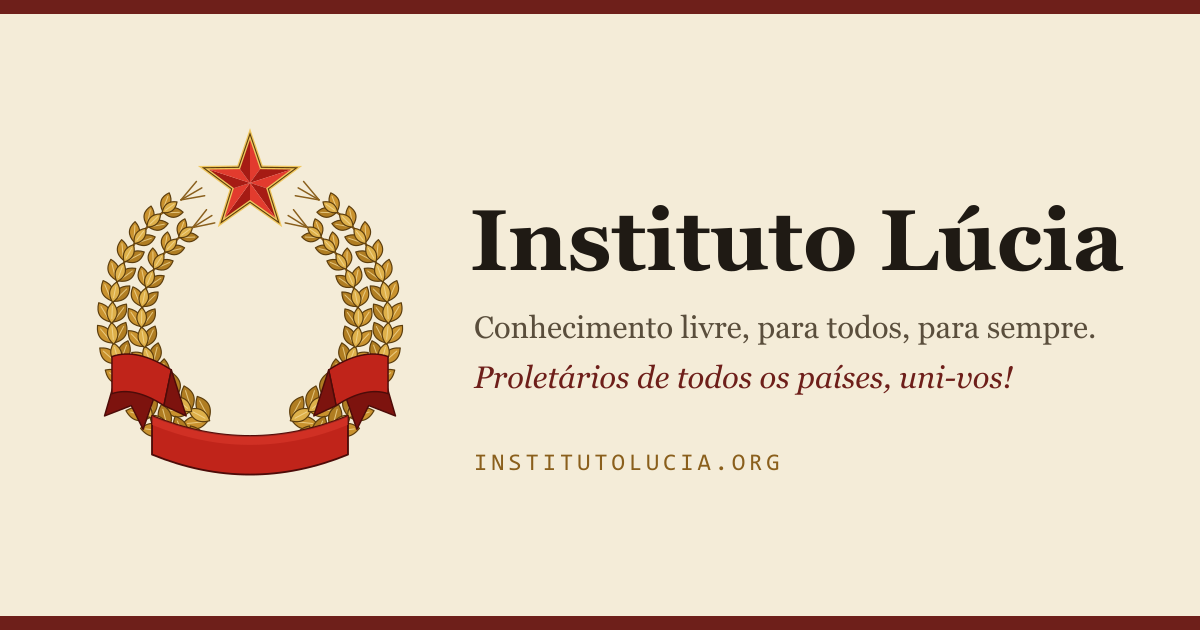
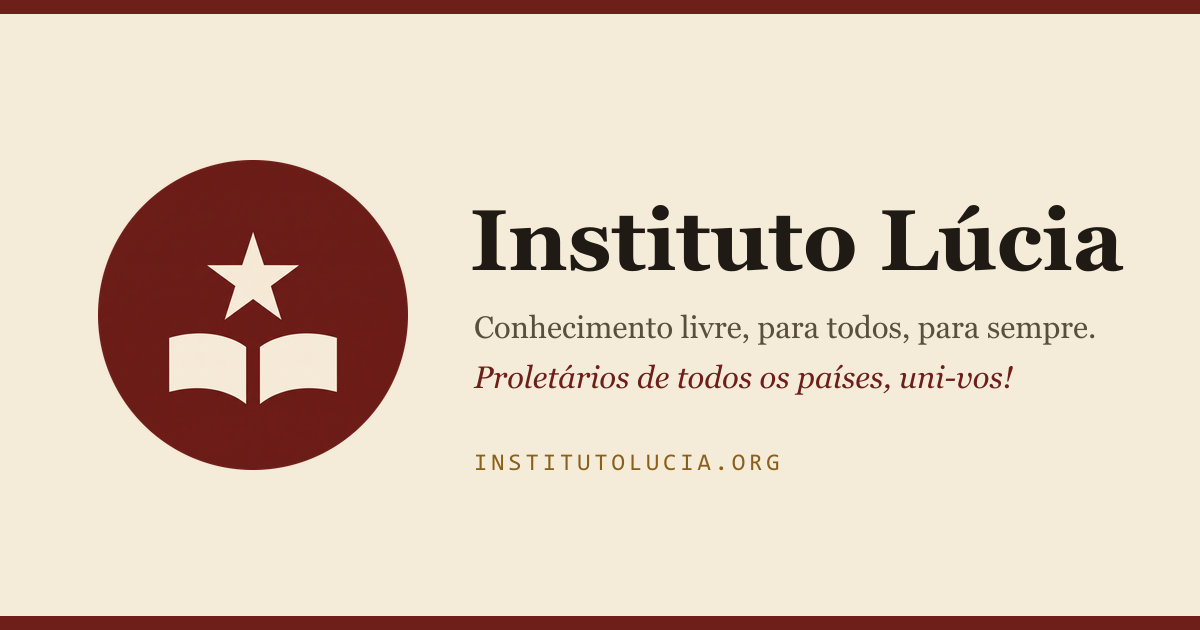
Identidade nova (estrela e livro), prévia ao vivo do certificado e modo sem internet consertado
- Ícone oficial em todos os tamanhos: cabeçalho, painel, favicon, ícones do aplicativo, cartão de compartilhamento e certificado.
- Certificado: botão 'Ver prévia' no formulário de abertura; a folha acompanha o que se preenche.
- Modo sem internet: o botão de guardar trilha gravava num cache que o service worker apagava; os nomes agora batem (v3).
- Ambiente de teste local volta a subir com o segundo fator obrigatório.

Changed region(s): [[0.0617, 0.2111, 0.3392, 0.754]]

diff --git a/components/painel/Certificado.tsx b/components/painel/Certificado.tsx
@@ -37,21 +37,10 @@ const horasPorExtenso = (valor: number) => `${String(valor).replace(".", ",")} $
 /** A hora da assinatura sai sempre no horário de Brasília, seja onde for que a folha é aberta. */
 const quandoAssinou = (iso: string) => `${new Date(iso).toLocaleString("pt-BR", { dateStyle: "short", timeStyle: "short", timeZone: "America/Sao_Paulo" })} (Brasília)`;
 
-/** A folha do certificado: uma página A4 deitada, igual para todos, que se salva em PDF pelo próprio navegador. */
+/** A folha com os controles de quem vai salvar: CPF (opcional, só na tela), salvar em PDF e voltar. */
 export function Impresso({ certificado, fechar }: { certificado: Certificado; fechar: () => void }) {
-  const { t } = useI18n();
   const [cpf, setCpf] = useState("");
   const emitido = certificado.status === "emitido";
-  const endereco = `${site.url.replace(/^https?:\/\//, "")}/pt/certificado`;
-  const cargo = (assinatura: Assinatura) =>
-    assinatura.papel === "coordenacao"
-      ? "Coordenador"
-      : assinatura.papel === "vice"
-        ? "Vice-coordenador"
-        : assinatura.papel === "educacao"
-          ? `Educador(a)${assinatura.disciplina ? ` de ${t.areas[assinatura.disciplina as keyof typeof t.areas]?.[0] ?? assinatura.disciplina}` : ""}`
-          : "Testemunha";
-
   return (
     <div>
       {/* Enquanto a folha está na tela, a página de impressão é A4 deitada e sem margens. */}
@@ -73,52 +62,75 @@ export function Impresso({ certificado, fechar }: { certificado: Certificado; fe
             : "Esta é a prévia. O certificado só pode ser salvo depois das três assinaturas."}
         </p>
       </div>
-
-      <article className="certificado" lang="pt-BR">
-        {/* eslint-disable-next-line @next/next/no-img-element */}
-        <img src="/emblema.png" alt="" className="certificado-fundo" />
-        {!emitido && <p className="certificado-previa">Prévia · sem validade</p>}
-        <div className="certificado-folha">
-          <header>
-            {/* eslint-disable-next-line @next/next/no-img-element */}
-            <img src="/emblema.png" alt="" className="certificado-emblema" />
-            <p className="certificado-casa">{site.name}</p>
-            <h2 className="certificado-titulo">Certificado</h2>
-            <p className="certificado-subtitulo">de trabalho voluntário</p>
-          </header>
-
-          <div className="certificado-corpo">
-            <p>O {site.name}, projeto educacional gratuito e sem fins lucrativos, certifica que</p>
-            <p className="certificado-nome">{certificado.nome}</p>
-            <p>
-              {cpf.trim() && <>CPF {cpf.trim()}, </>}
-              atuou como voluntária(o) no período de <strong>{dia(certificado.inicio)}</strong> a <strong>{dia(certificado.fim)}</strong>, cumprindo carga horária total de{" "}
-              <strong>{horasPorExtenso(Number(certificado.horas))}</strong>.
-            </p>
-            <p className="certificado-rotulo">Atividades realizadas</p>
-            <p className={`certificado-atividades ${certificado.atividades.length > 420 ? "certificado-atividades-longas" : ""}`}>{certificado.atividades}</p>
-            <p className="certificado-lei">Trabalho prestado sem remuneração, nos termos da Lei nº 9.608/1998, mediante termo de adesão aceito pela pessoa voluntária.</p>
-          </div>
-
-          <ul className="certificado-assinaturas">
-            {certificado.testemunhas.map((assinatura) => (
-              <li key={`${assinatura.id}${assinatura.papel ?? ""}`}>
-                <span className="certificado-selo">{assinatura.confirmou_em ? `Assinado eletronicamente em ${quandoAssinou(assinatura.confirmou_em)}` : "Aguardando assinatura"}</span>
-                <span className="certificado-assina">{assinatura.nome}</span>
-                <span className="certificado-cargo">{cargo(assinatura)}</span>
-              </li>
-            ))}
-          </ul>
-
-          <footer>
-            <p>
-              Certificado nº {codigoBonito(certificado.codigo)}
-              {certificado.emitido_em && <> · emitido em {new Date(certificado.emitido_em).toLocaleDateString("pt-BR", { timeZone: "America/Sao_Paulo" })}</>} · confira a autenticidade em {endereco}
-            </p>
-            <p>Impressão digital (SHA-256): {certificado.impressao}</p>
-          </footer>
-        </div>
-      </article>
+      <Folha certificado={certificado} cpf={cpf} />
     </div>
+  );
+}
+
+/**
+ * A folha do certificado: uma página A4 deitada, igual para todos, que se salva em PDF pelo próprio navegador.
+ * Também serve de prévia ao vivo enquanto a coordenação preenche o formulário: nesse caso as horas e o número
+ * ainda não existem, e a folha diz isso no lugar deles.
+ */
+export function Folha({ certificado, cpf = "", rascunho = false }: { certificado: Certificado; cpf?: string; rascunho?: boolean }) {
+  const { t } = useI18n();
+  const emitido = certificado.status === "emitido";
+  const data = (iso: string) => (iso ? dia(iso) : "__/__/____");
+  const endereco = `${site.url.replace(/^https?:\/\//, "")}/pt/certificado`;
+  const cargo = (assinatura: Assinatura) =>
+    assinatura.papel === "coordenacao"
+      ? "Coordenador"
+      : assinatura.papel === "vice"
+        ? "Vice-coordenador"
+        : assinatura.papel === "educacao"
+          ? `Educador(a)${assinatura.disciplina ? ` de ${t.areas[assinatura.disciplina as keyof typeof t.areas]?.[0] ?? assinatura.disciplina}` : ""}`
+          : "Testemunha";
+
+  return (
+    <article className="certificado" lang="pt-BR">
+      {/* eslint-disable-next-line @next/next/no-img-element */}
+      <img src="/emblema.png" alt="" className="certificado-fundo" />
+      {!emitido && <p className="certificado-previa">Prévia · sem validade</p>}
+      <div className="certificado-folha">
+        <header>
+          {/* eslint-disable-next-line @next/next/no-img-element */}
+          <img src="/emblema.png" alt="" className="certificado-emblema" />
+          <p className="certificado-casa">{site.name}</p>
+          <h2 className="certificado-titulo">Certificado</h2>
+          <p className="certificado-subtitulo">de trabalho voluntário</p>
+        </header>
+
+        <div className="certificado-corpo">
+          <p>O {site.name}, projeto educacional gratuito e sem fins lucrativos, certifica que</p>
+          <p className="certificado-nome">{certificado.nome || "Nome de quem recebe"}</p>
+          <p>
+            {cpf.trim() && <>CPF {cpf.trim()}, </>}
+            atuou como voluntária(o) no período de <strong>{data(certificado.inicio)}</strong> a <strong>{data(certificado.fim)}</strong>, cumprindo carga horária total de{" "}
+            <strong>{rascunho ? "__ horas" : horasPorExtenso(Number(certificado.horas))}</strong>.
+          </p>
+          <p className="certificado-rotulo">Atividades realizadas</p>
+          <p className={`certificado-atividades ${certificado.atividades.length > 420 ? "certificado-atividades-longas" : ""}`}>{certificado.atividades || "As atividades que você descrever aparecem aqui."}</p>
+          <p className="certificado-lei">Trabalho prestado sem remuneração, nos termos da Lei nº 9.608/1998, mediante termo de adesão aceito pela pessoa voluntária.</p>
+        </div>
+
+        <ul className="certificado-assinaturas">
+          {certificado.testemunhas.map((assinatura) => (
+            <li key={`${assinatura.id}${assinatura.papel ?? ""}`}>
+              <span className="certificado-selo">{assinatura.confirmou_em ? `Assinado eletronicamente em ${quandoAssinou(assinatura.confirmou_em)}` : "Aguardando assinatura"}</span>
+              <span className="certificado-assina">{assinatura.nome}</span>
+              <span className="certificado-cargo">{cargo(assinatura)}</span>
+            </li>
+          ))}
+        </ul>
+
+        <footer>
+          <p>
+            Certificado nº {rascunho ? "a definir na abertura" : codigoBonito(certificado.codigo)}
+            {certificado.emitido_em && <> · emitido em {new Date(certificado.emitido_em).toLocaleDateString("pt-BR", { timeZone: "America/Sao_Paulo" })}</>} · confira a autenticidade em {endereco}
+          </p>
+          <p>Impressão digital (SHA-256): {rascunho ? "calculada na abertura do processo" : certificado.impressao}</p>
+        </footer>
+      </div>
+    </article>
   );
 }

diff --git a/components/painel/Horas.tsx b/components/painel/Horas.tsx
@@ -3,7 +3,7 @@
 
 import { useState } from "react";
 import { can, leads, type Me } from "@/lib/backend";
-import { type Certificado, Impresso } from "./Certificado";
+import { type Certificado, Folha, Impresso } from "./Certificado";
 import { Aviso, botao, botaoClaro, campo, dia, elo, rotulo, useAcao, useLista } from "./comum";
 
 export const VERSAO_DO_TERMO = "2026-10";
@@ -46,7 +46,7 @@ interface Pessoa {
   id: string;
   nome: string;
   email: string;
-  papeis: { papel: string }[];
+  papeis: { papel: string; disciplina?: string | null }[];
 }
 
 const situacao: Record<string, string> = { pendente: "aguardando conferência", confirmada: "confirmada", recusada: "não confirmada", aberto: "aguardando assinaturas", emitido: "emitido", cancelado: "cancelado" };
@@ -214,7 +214,7 @@ export function Horas({ me }: { me: Me }) {
         </ul>
       </section>
 
-      {leads(me) && <Abrir depois={certificados.recarregar} />}
+      {leads(me) && <Abrir me={me} depois={certificados.recarregar} />}
       <Aviso texto={termo.erro || minhas.erro || certificados.erro || acao.aviso} />
     </div>
   );
@@ -251,7 +251,7 @@ function Conferir() {
 }
 
 /** Só o coordenador: abre o processo de um certificado e indica quem assina com ele. */
-function Abrir({ depois }: { depois: () => void }) {
+function Abrir({ me, depois }: { me: Me; depois: () => void }) {
   const pessoas = useLista<Pessoa[]>("voluntarios_listar");
   const acao = useAcao(depois);
   const [form, setForm] = useState({ usuario: "", educador: "", vice: "", inicio: "", fim: new Date().toLocaleDateString("sv-SE"), atividades: "" });
@@ -259,6 +259,29 @@ function Abrir({ depois }: { depois: () => void }) {
   const tem = (pessoa: Pessoa, papel: string) => pessoa.papeis.some((item) => item.papel === papel);
   const educadores = equipe.filter((pessoa) => pessoa.id !== form.usuario && tem(pessoa, "educacao") && !tem(pessoa, "coordenacao"));
   const vices = equipe.filter((pessoa) => pessoa.id !== form.usuario && pessoa.id !== form.educador && tem(pessoa, "vice"));
+  const [previa, setPrevia] = useState(false);
+  const nomeDe = (id: string) => equipe.find((pessoa) => pessoa.id === id)?.nome ?? "";
+  const educador = equipe.find((pessoa) => pessoa.id === form.educador);
+  const vice = form.vice ? nomeDe(form.vice) : vices.length === 1 ? vices[0].nome : "";
+  /** A folha como ela sairia agora, montada com o que está no formulário. Nada disto é guardado. */
+  const rascunho: Certificado = {
+    id: "previa",
+    codigo: "",
+    usuario: form.usuario || null,
+    nome: nomeDe(form.usuario),
+    horas: 0,
+    inicio: form.inicio,
+    fim: form.fim,
+    atividades: form.atividades.trim(),
+    testemunhas: [
+      { id: "educador", nome: educador?.nome || "Educador(a) que assina", papel: "educacao", disciplina: educador?.papeis.find((item) => item.papel === "educacao")?.disciplina ?? null, confirmou_em: null },
+      { id: "vice", nome: vice || "Vice-coordenador que assina", papel: "vice", confirmou_em: null },
+      { id: "coordenacao", nome: me.nome, papel: "coordenacao", confirmou_em: null },
+    ],
+    status: "aberto",
+    emitido_em: new Date().toISOString(),
+    impressao: "",
+  };
 
   return (
     <section>
@@ -330,11 +353,25 @@ function Abrir({ depois }: { depois: () => void }) {
             {vices.length === 0 ? "Não há vice-coordenador disponível para assinar: nomeie um em Voluntários e convites." : ""}
           </p>
         )}
-        <button type="submit" className={botao} disabled={acao.ocupado || !form.usuario || !form.educador || vices.length === 0}>
-          Abrir processo
-        </button>
+        <div className="flex flex-wrap gap-3">
+          <button type="submit" className={botao} disabled={acao.ocupado || !form.usuario || !form.educador || vices.length === 0}>
+            Abrir processo
+          </button>
+          <button type="button" className={botaoClaro} aria-expanded={previa} onClick={() => setPrevia(!previa)}>
+            {previa ? "Fechar a prévia" : "Ver prévia"}
+          </button>
+        </div>
         <Aviso texto={pessoas.erro || acao.aviso} />
       </form>
+      {previa && (
+        <div className="mt-5">
+          <p className="mb-3 max-w-3xl text-ink-soft">
+            A folha abaixo acompanha o que você preenche: nome, período, atividades, quem assina e a data de hoje. As horas entram sozinhas na abertura (são as já confirmadas da pessoa no
+            período), e o número e a impressão digital nascem junto. Nada desta prévia é guardado.
+          </p>
+          <Folha certificado={rascunho} rascunho />
+        </div>
+      )}
     </section>
   );
 }

diff --git a/components/Header.tsx b/components/Header.tsx
@@ -19,9 +19,9 @@ export function Header({ lang, t }: { lang: Locale; t: Dict }) {
       <Strip fallback={t.common.strip} />
       {/* Três colunas: o nome à esquerda, o menu no centro da página (alinhado com a faixa de cima) e, à direita, conta, idioma e tema. */}
       <div className="mx-auto flex max-w-7xl items-center gap-x-2 px-3 py-3 sm:gap-x-5 sm:px-4 sm:py-4 lg:grid lg:gap-x-10 lg:grid-cols-[1fr_auto_1fr]">
-        <Link href={localePath(lang, "/")} className="flex min-w-0 items-center gap-2 sm:shrink-0 sm:gap-2.5 lg:justify-self-start">
+        <Link href={localePath(lang, "/")} className="flex min-w-0 items-center gap-2 sm:shrink-0 sm:gap-3 lg:justify-self-start">
           {/* eslint-disable-next-line @next/next/no-img-element */}
-          <img src="/emblema-96.png" alt="" width={44} height={44} className="h-8 w-8 shrink-0 sm:h-11 sm:w-11" />
+          <img src="/emblema-96.png" alt="" width={44} height={44} className="h-9 w-9 shrink-0 sm:h-11 sm:w-11 lg:h-12 lg:w-12" />
           <span className="whitespace-nowrap text-lg font-semibold leading-none tracking-tight sm:text-2xl lg:text-3xl">{site.name}</span>
         </Link>
         {/* No celular o menu fica embaixo (BottomNav); aqui ele aparece a partir de telas médias, sempre em uma linha. */}

diff --git a/app/manifest.ts b/app/manifest.ts
@@ -24,7 +24,7 @@ export default function manifest(): MetadataRoute.Manifest {
     icons: [
       { src: "/icone-192.png", sizes: "192x192", type: "image/png", purpose: "any" },
       { src: "/icone-512.png", sizes: "512x512", type: "image/png", purpose: "any" },
-      // Ícone com margem de segurança: o Android recorta em círculo, gota ou quadrado sem comer o emblema.
+      // Ícone com margem de segurança: o Android recorta em círculo, gota ou quadrado sem comer a estrela e o livro.
       { src: "/icone-recorte-512.png", sizes: "512x512", type: "image/png", purpose: "maskable" },
     ],
     shortcuts: [

diff --git a/components/Offline.tsx b/components/Offline.tsx
@@ -4,8 +4,8 @@
 import { useEffect, useState } from "react";
 import type { Dict } from "@/i18n/types";
 
-/** O mesmo nome usado em public/sw.js. */
-const PAGINAS = "lucia-paginas-v1";
+/** Tem de ser o mesmo nome de public/sw.js (lucia-paginas- mais a VERSAO de lá): se divergirem, o que se guarda aqui é apagado na ativação. */
+const PAGINAS = "lucia-paginas-v3";
 
 /** Liga o funcionamento sem internet. Só no site publicado: durante o desenvolvimento ele atrapalharia. */
 export function OfflineSupport() {

diff --git a/public/sw.js b/public/sw.js
@@ -2,7 +2,8 @@
 //
 // Faz o site abrir sem internet. Guarda as páginas que a pessoa já visitou (e as trilhas que ela
 // mandou guardar) e os arquivos fixos do site. Nada do painel nem da entrada é guardado.
-const VERSAO = "v2";
+// Mudou a VERSAO? Mude também o nome em components/Offline.tsx: os dois precisam ser iguais.
+const VERSAO = "v3";
 const PAGINAS = `lucia-paginas-${VERSAO}`;
 const FIXOS = `lucia-fixos-${VERSAO}`;
 const LIMITE_DE_PAGINAS = 300;
